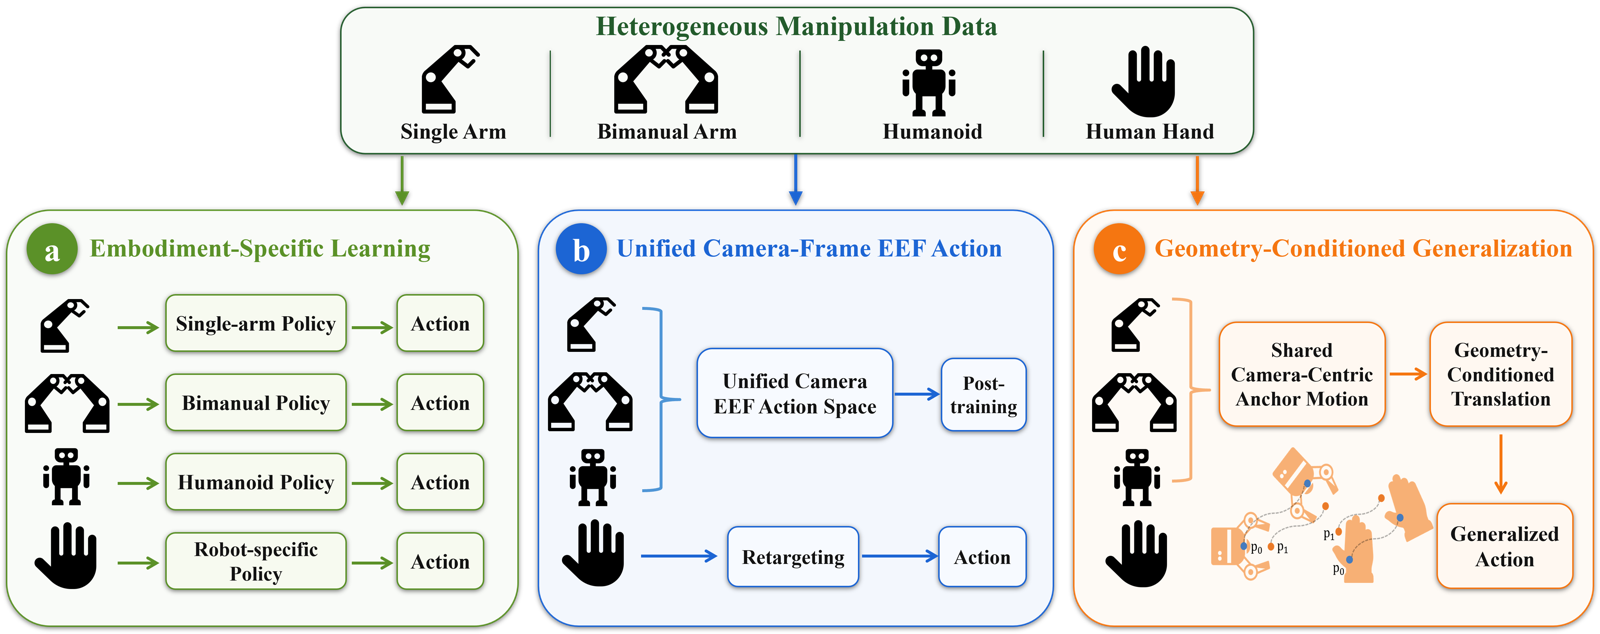
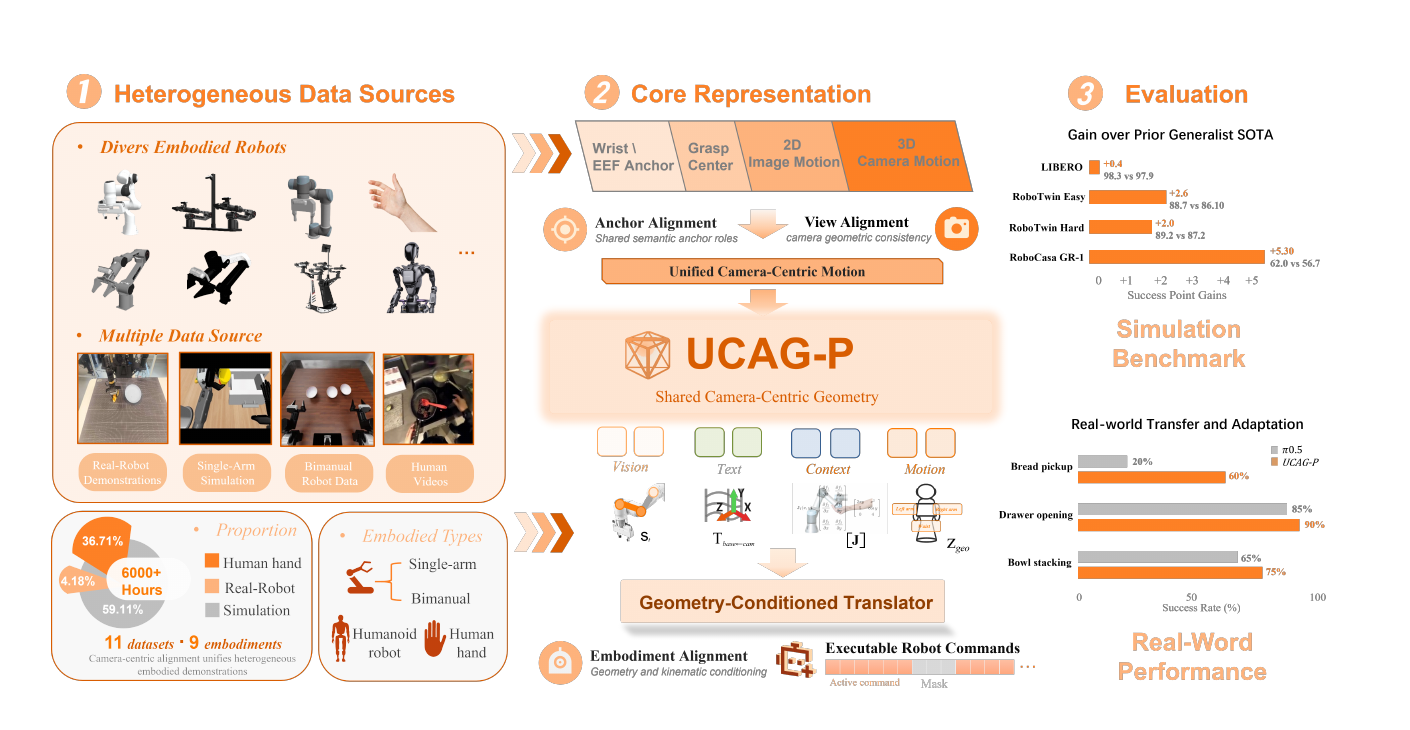
Refine publication figures and venue badges

diff --git a/assets/css/main.scss b/assets/css/main.scss
@@ -402,6 +402,32 @@ body {
   background: $amber;
 }
 
+.ccf-badge {
+  position: absolute;
+  top: 0.8rem;
+  right: 0.8rem;
+  padding: 0.35rem 0.55rem;
+  border: 1px solid rgba(255, 255, 255, 0.45);
+  border-radius: 999px;
+  color: #fff;
+  font-size: 0.68rem;
+  font-weight: 850;
+  letter-spacing: 0.06em;
+  box-shadow: 0 5px 14px rgba(12, 39, 67, 0.16);
+}
+
+.ccf-badge--a {
+  background: #b43a3a;
+}
+
+.ccf-badge--b {
+  background: $teal;
+}
+
+.ccf-badge--c {
+  background: $navy;
+}
+
 .publication-copy {
   display: flex;
   min-width: 0;

diff --git a/_pages/about.md b/_pages/about.md
@@ -12,7 +12,6 @@ redirect_from:
 
 <section class="intro-section">
   <p class="eyebrow">ABOUT ME</p>
-  <h1>Building reliable intelligence for autonomous systems.</h1>
   <p class="intro-lead">
     Hi, I am <strong>Yuechen Luo</strong>, a master's student at the
     <a href="https://www.svm.tsinghua.edu.cn/" target="_blank" rel="noopener">School of Vehicle and Mobility, Tsinghua University</a>,
@@ -87,12 +86,12 @@ redirect_from:
     <article class="publication-card">
       <a class="publication-figure" href="https://arxiv.org/abs/2608.26058" target="_blank" rel="noopener">
         <img src="{{ '/images/publications/ucag-p.png' | relative_url }}" alt="UCAG-P overview" loading="lazy">
-        <span class="venue-badge venue-badge--preprint">arXiv 2026</span>
+        <span class="venue-badge venue-badge--preprint">Xiaomi Technical Report</span>
       </a>
       <div class="publication-copy">
-        <p class="publication-kicker">Embodied Intelligence · Cross-Embodiment Learning</p>
+        <p class="publication-kicker">Xiaomi Technical Report · Cross-Embodiment Learning</p>
         <h3><a href="https://arxiv.org/abs/2608.26058" target="_blank" rel="noopener">One Policy, Many Embodiments: Unified Camera-Centric Action Geometry Pre-training for Heterogeneous Embodied Manipulation</a></h3>
-        <p class="publication-authors">Shaoqing Xu*, Fang Li*, Guozhi Zhan, Zhixiang Duan, Yuhan Wang, <strong>Yuechen Luo</strong>, et al.</p>
+        <p class="publication-authors"><strong>Core Contributor</strong></p>
         <p class="publication-summary">UCAG-P aligns heterogeneous robot and human demonstrations in a shared camera-centric action space for transferable manipulation.</p>
         <div class="publication-links">
           <a href="https://arxiv.org/abs/2608.26058" target="_blank" rel="noopener">Paper</a>
@@ -107,6 +106,7 @@ redirect_from:
       <a class="publication-figure" href="https://eccv.ecva.net/virtual/2026/poster/4231" target="_blank" rel="noopener">
         <img src="{{ '/images/publications/world-in-loop.png' | relative_url }}" alt="World-in-Loop overview" loading="lazy">
         <span class="venue-badge">ECCV 2026</span>
+        <span class="ccf-badge ccf-badge--b">CCF B</span>
       </a>
       <div class="publication-copy">
         <p class="publication-kicker">World Models · Online Correction</p>
@@ -125,6 +125,7 @@ redirect_from:
       <a class="publication-figure" href="https://arxiv.org/abs/2607.00399" target="_blank" rel="noopener">
         <img src="{{ '/images/publications/drivever.jpg' | relative_url }}" alt="DriveVer overview" loading="lazy">
         <span class="venue-badge">IROS 2026</span>
+        <span class="ccf-badge ccf-badge--c">CCF C</span>
       </a>
       <div class="publication-copy">
         <p class="publication-kicker">Test-Time Verification · Planning</p>
@@ -196,6 +197,7 @@ redirect_from:
       <a class="publication-figure" href="https://arxiv.org/abs/2603.01063" target="_blank" rel="noopener">
         <img src="{{ '/images/publications/elf-vla.png' | relative_url }}" alt="ELF-VLA training pipeline" loading="lazy">
         <span class="venue-badge">CVPR 2026</span>
+        <span class="ccf-badge ccf-badge--a">CCF A</span>
       </a>
       <div class="publication-copy">
         <p class="publication-kicker">Reinforcement Learning · Failure Feedback</p>
@@ -214,6 +216,7 @@ redirect_from:
       <a class="publication-figure" href="https://arxiv.org/abs/2509.13769" target="_blank" rel="noopener">
         <img src="{{ '/images/publications/adathinkdrive.jpg' | relative_url }}" alt="AdaThinkDrive overview" loading="lazy">
         <span class="venue-badge">ICRA 2026</span>
+        <span class="ccf-badge ccf-badge--b">CCF B</span>
       </a>
       <div class="publication-copy">
         <p class="publication-kicker">Adaptive Reasoning · Reinforcement Learning</p>
@@ -232,6 +235,7 @@ redirect_from:
       <a class="publication-figure" href="https://arxiv.org/abs/2509.20843" target="_blank" rel="noopener">
         <img src="{{ '/images/publications/mtrdrive.png' | relative_url }}" alt="MTRDrive framework" loading="lazy">
         <span class="venue-badge">ICRA 2026</span>
+        <span class="ccf-badge ccf-badge--b">CCF B</span>
       </a>
       <div class="publication-copy">
         <p class="publication-kicker">Memory · Tool Use · Corner Cases</p>
@@ -249,6 +253,7 @@ redirect_from:
       <a class="publication-figure" href="https://ojs.aaai.org/index.php/AAAI/article/view/37290" target="_blank" rel="noopener">
         <img src="{{ '/images/publications/vilta.png' | relative_url }}" alt="VILTA framework" loading="lazy">
         <span class="venue-badge">AAAI 2026</span>
+        <span class="ccf-badge ccf-badge--a">CCF A</span>
       </a>
       <div class="publication-copy">
         <p class="publication-kicker">Adversarial Training · Long-Tail Robustness</p>
